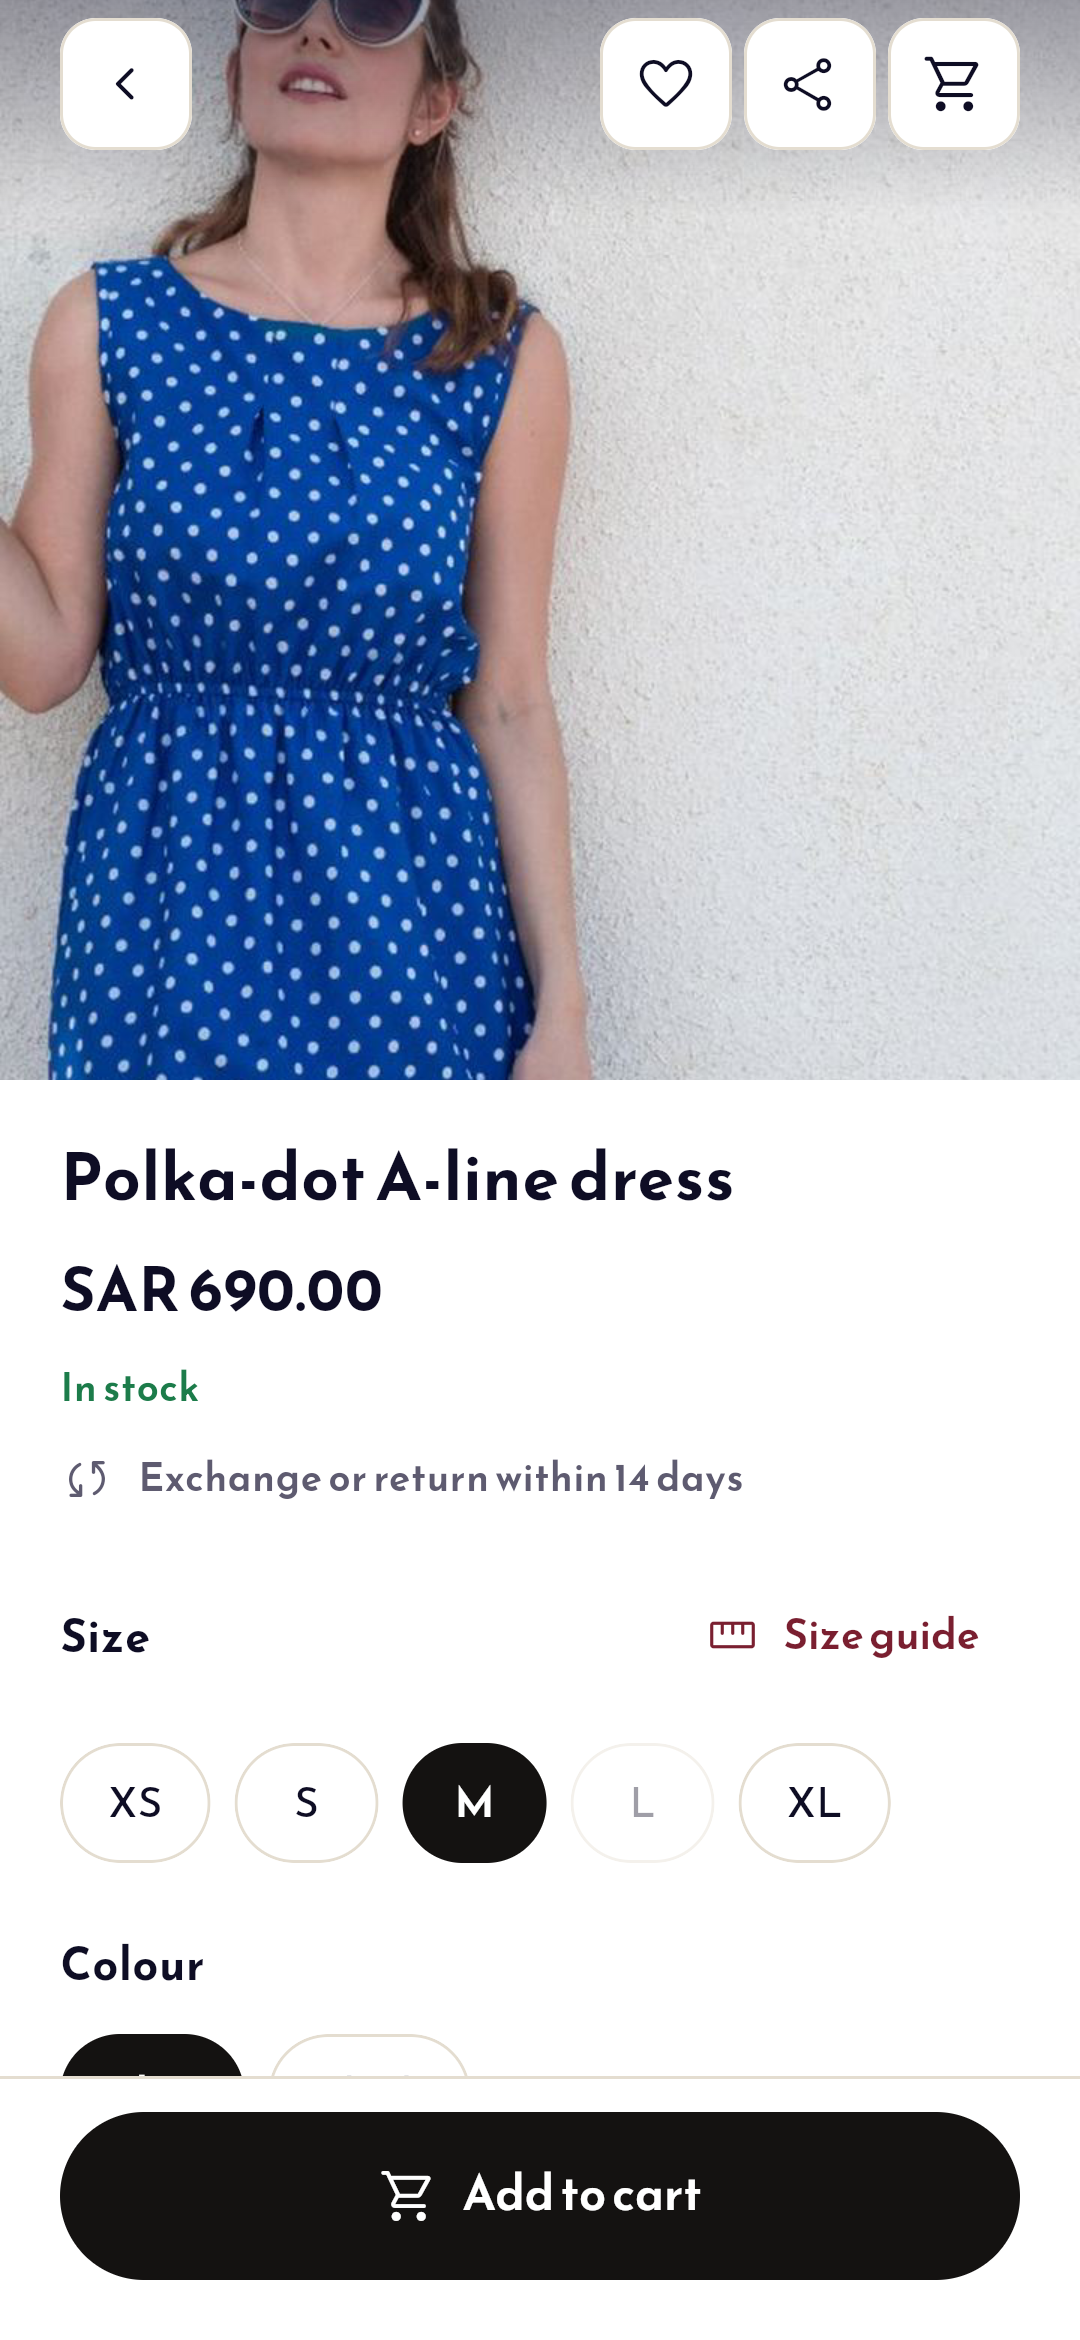
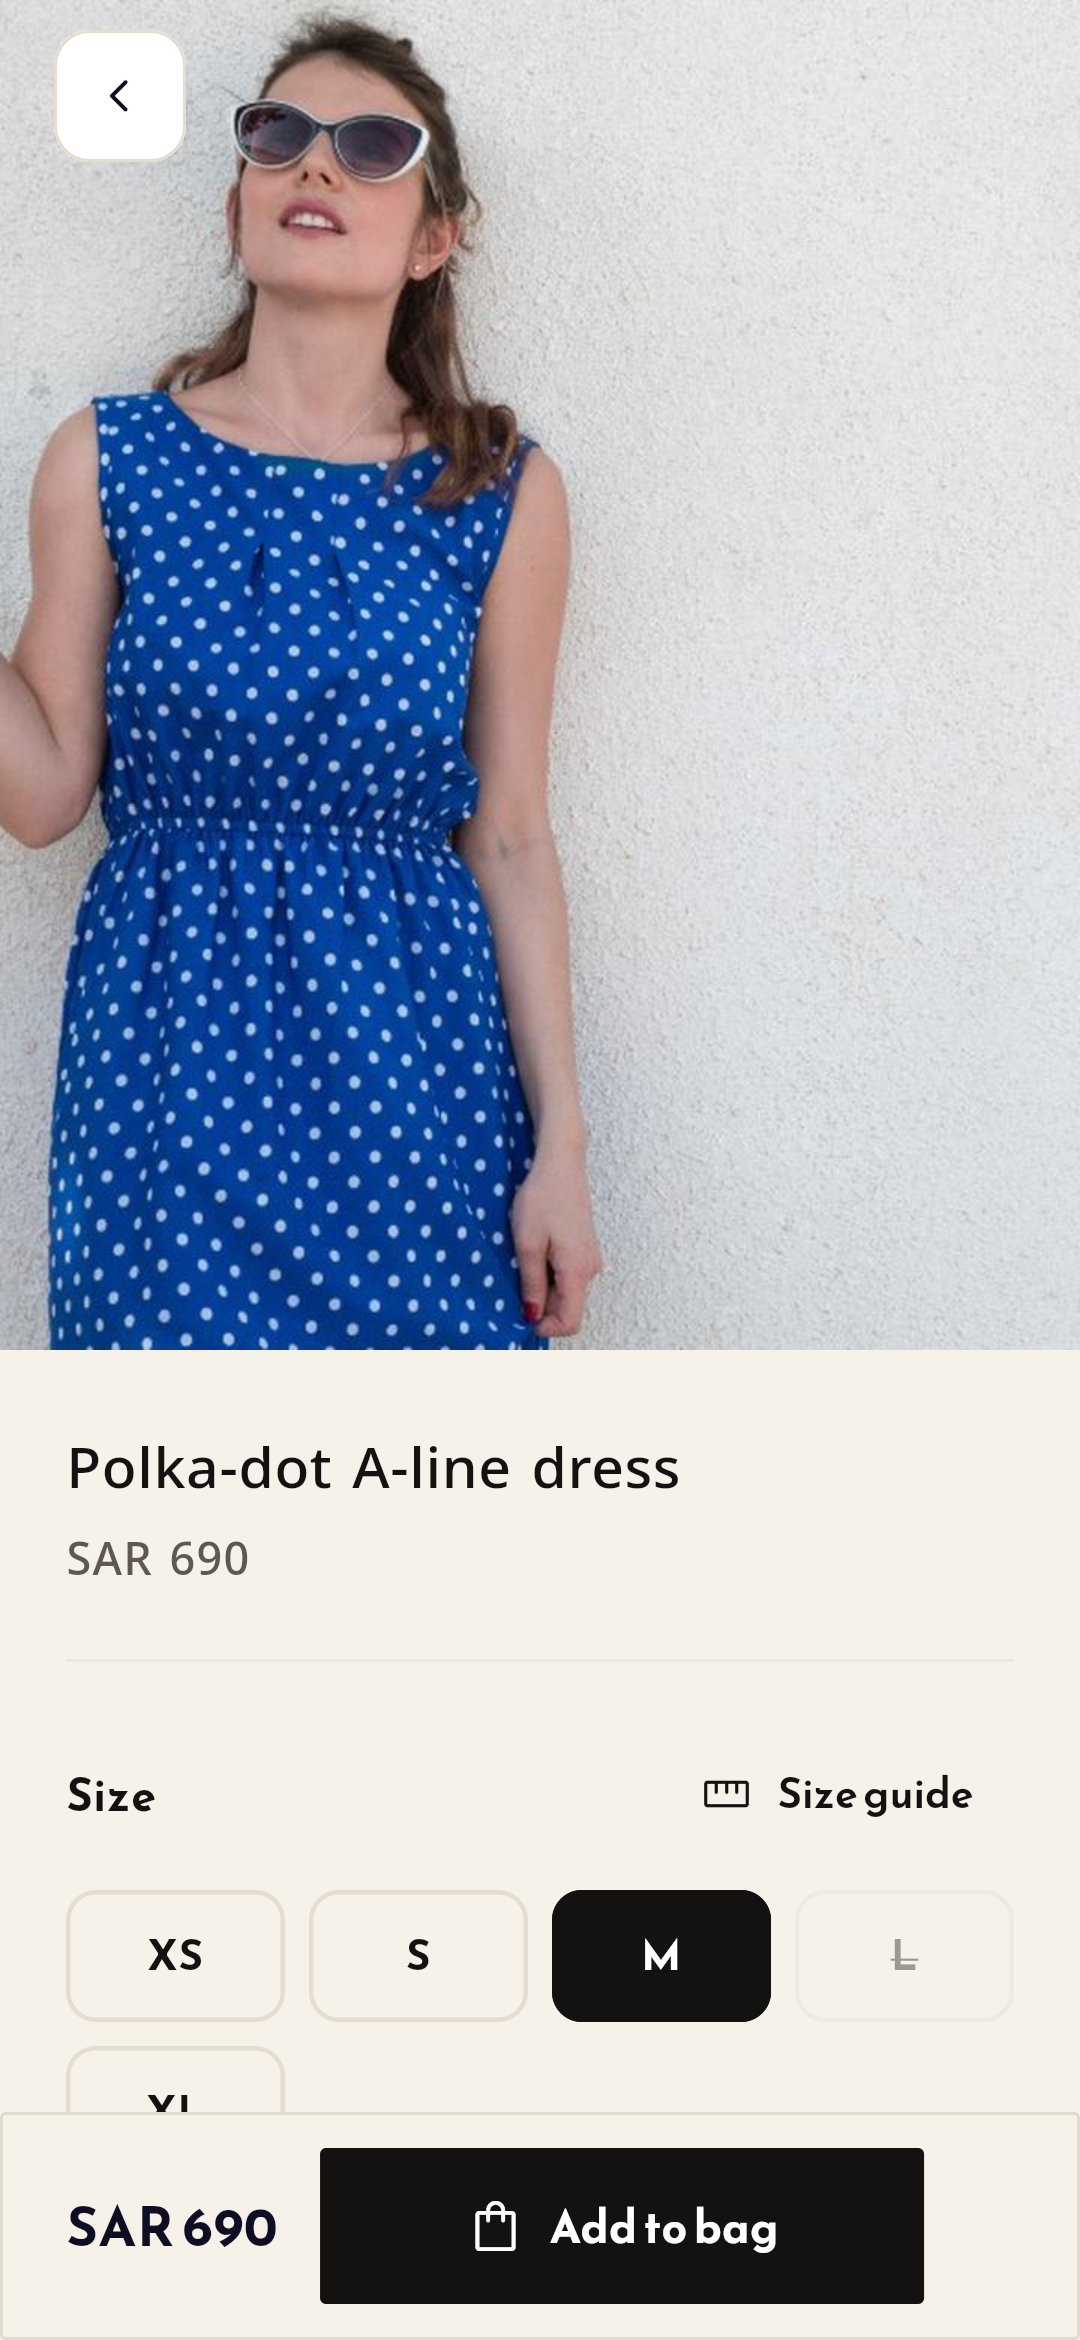
228.7: the product pages in the review shots, and the demos' pictures retaken (Lujain's and Toota's product now their template C's page)
Claude-Session: https://claude.ai/code/session_01PYAXYaoBzviNy7pGFmGeym

diff --git a/platform/web/tests/screens/v3-clothes-kids.screens.ts b/platform/web/tests/screens/v3-clothes-kids.screens.ts
@@ -182,7 +182,7 @@ async function shoot(browser: Browser, t: (typeof TYPES)[number], look: "c" | "d
     const escape = (text: string) => text.replace(/[.*+?^${}()|[\]\\]/g, "\\$&");
     await semantics(arShop);
     // The tab's Arabic name from the app's pages, else Studio's ("Shop", RUNWAY's "Discover") for a project's draft.
-    const shopTab = arShopTab ? new RegExp(`^${escape(arShopTab)}`) : /^(المتجر|اكتشفي)$/;
+    const shopTab = arShopTab ? new RegExp(`^${escape(arShopTab)}$`) : /^(المتجر|اكتشفي)$/;
     expect(await tapNamed(arShop, shopTab), "the Arabic Shop tab").toBe(true);
     await arShop.waitForTimeout(3500);
     await semantics(arShop);
@@ -190,13 +190,14 @@ async function shoot(browser: Browser, t: (typeof TYPES)[number], look: "c" | "d
     // The listing's Arabic names; for a project's draft, the demo's in Arabic, then in English (a project may keep them so).
     const demoNames = t.id === "clothes" ? CLOTHES_PRODUCT_NAMES : KIDS_PRODUCT_NAMES;
     const names = [...arNames, ...Object.values(demoNames).map((n) => n.ar), ...(t.id === "clothes" ? CLOTHES_PRODUCTS : KIDS_PRODUCTS).map((p) => p.name)];
-    // Opened when the bar is gone (the product page draws no tabs); else the next name.
-    const barShows = () => arShop.evaluate((source) => [...document.querySelectorAll("flt-semantics")].some((x) => new RegExp(source).test((x.getAttribute("aria-label") ?? x.textContent ?? "").trim()) && x.getBoundingClientRect().width > 0), shopTab.source);
+    // Opened when its buy button shows (each look's words, the app's, or "Notify me" for a size gone); else the next name.
+    const buyShows = () =>
+      arShop.evaluate(() => [...document.querySelectorAll("flt-semantics")].some((x) => /(أضيفي إلى|أضف إلى السلة|إلى السلة|أبلغني)/.test((x.getAttribute("aria-label") ?? x.textContent ?? "").trim()) && x.getBoundingClientRect().width > 0));
     for (const name of names) {
       if (!(await tapNamed(arShop, new RegExp(`^${escape(name)}`)))) continue;
       await arShop.waitForTimeout(3000);
       await semantics(arShop);
-      if (!(await barShows())) {
+      if (await buyShows()) {
         opened = true;
         break;
       }
